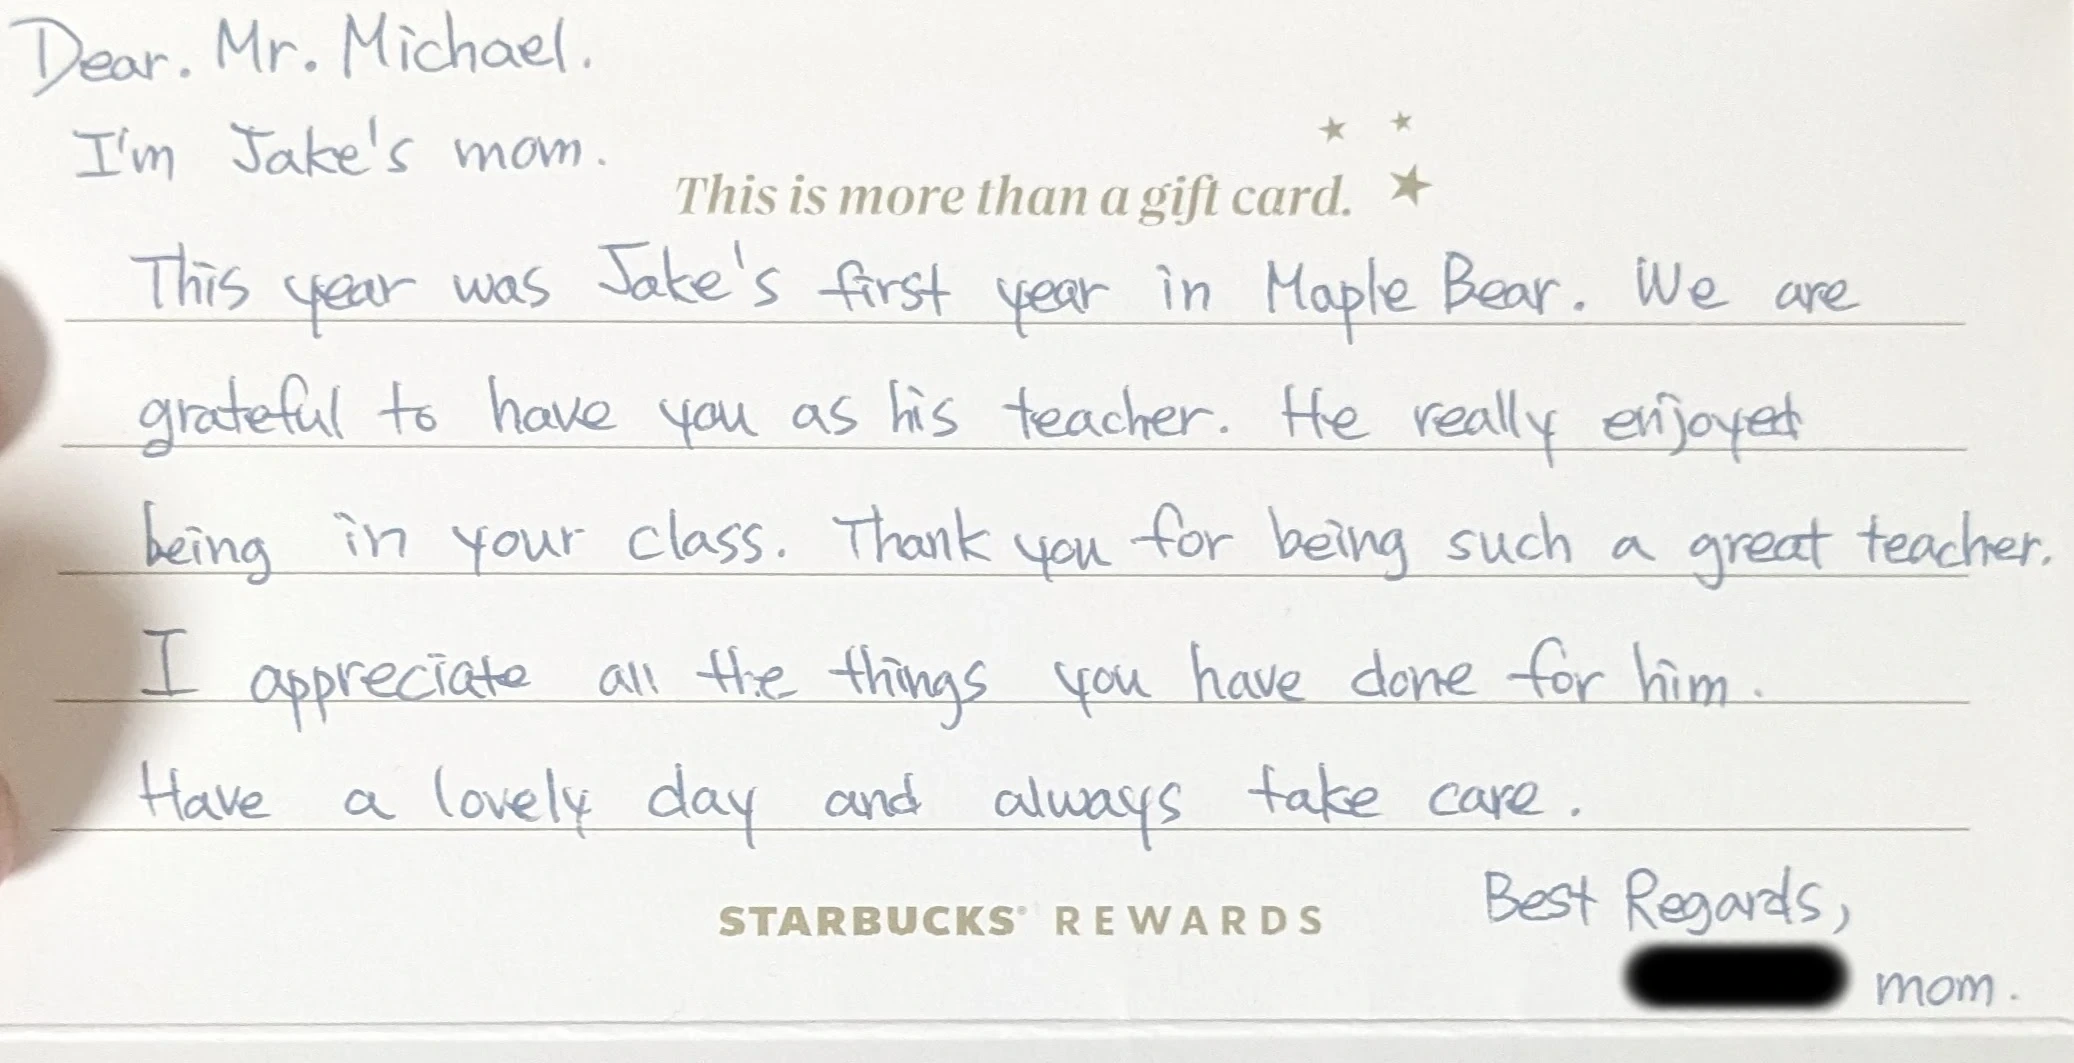
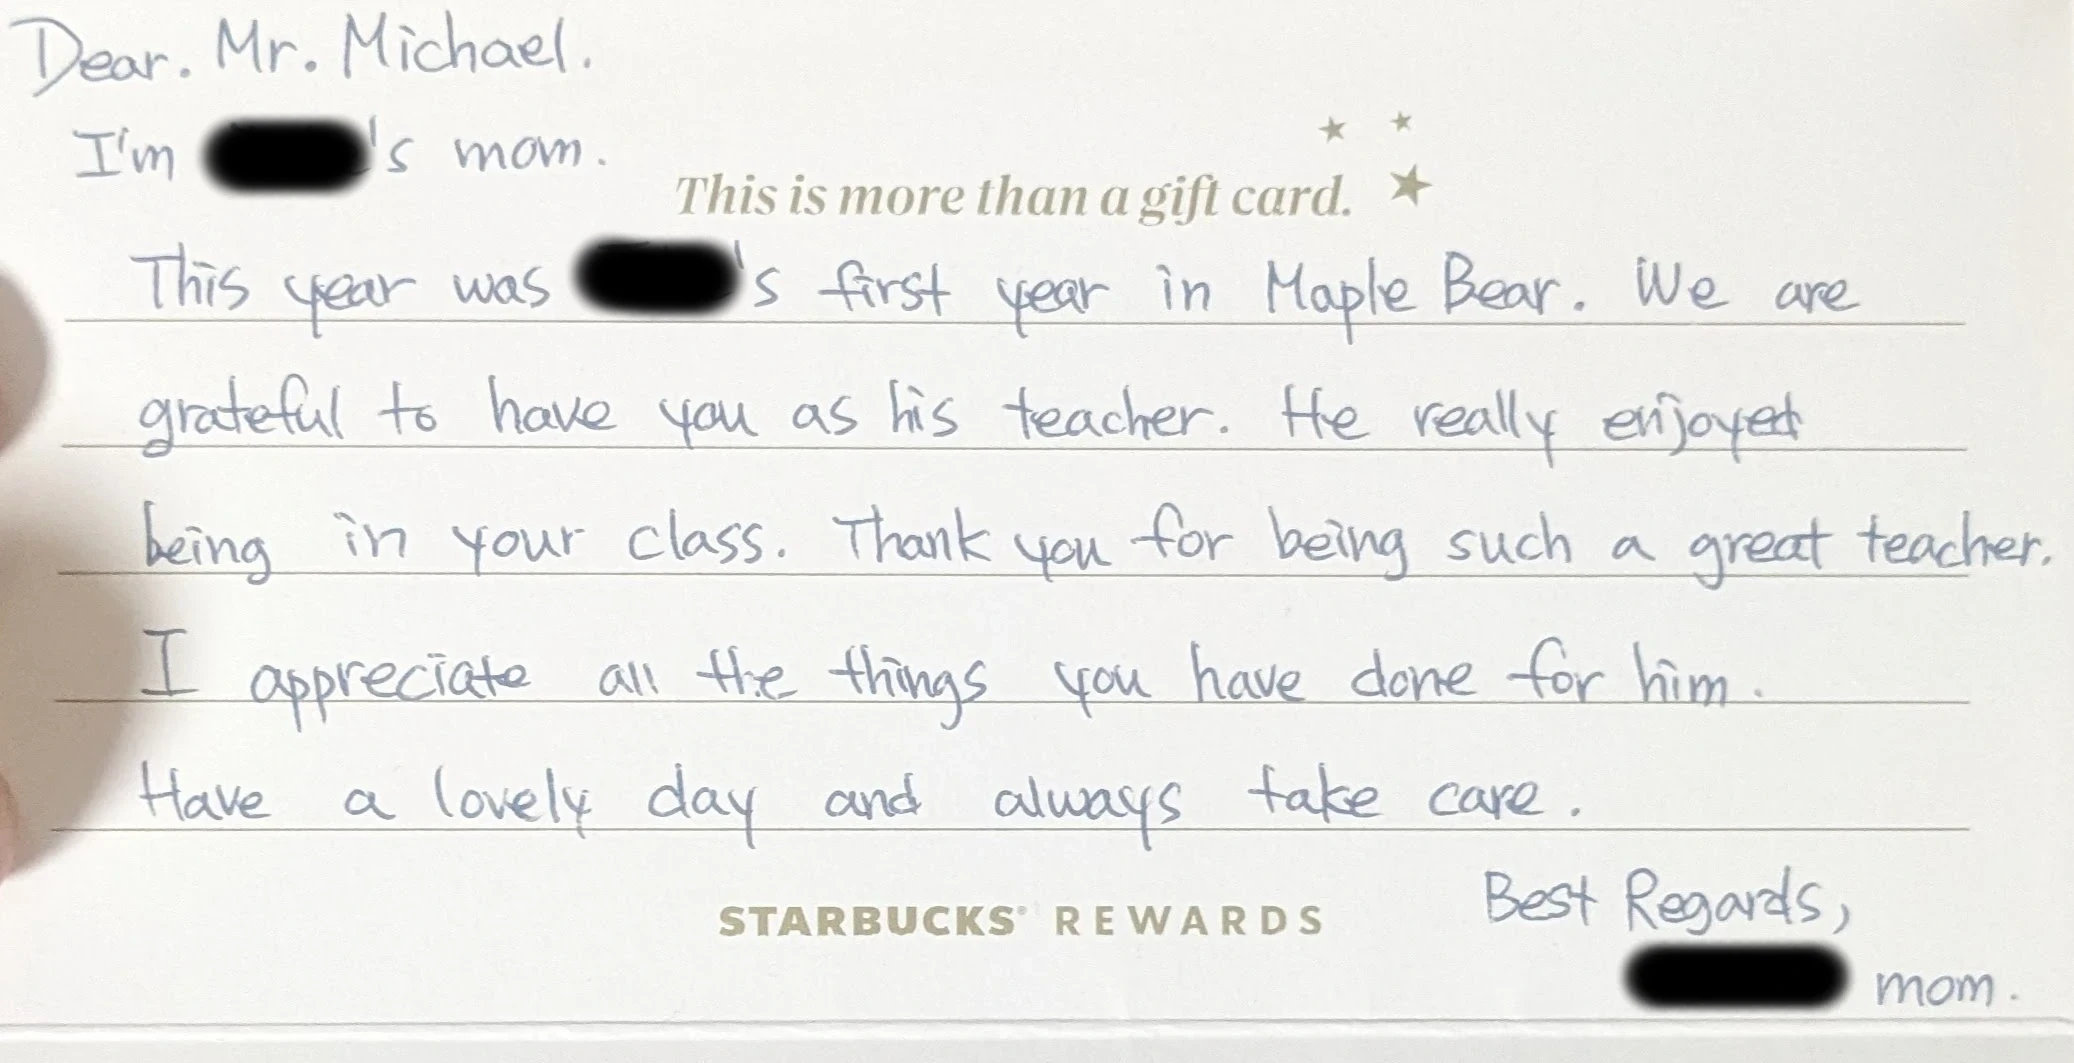
done?

Changed region(s): [[0.2777, 0.2173, 0.3703, 0.3104], [0.0926, 0.0931, 0.1851, 0.1863]]

diff --git a/README.md b/README.md
@@ -18,6 +18,8 @@
     - updated the footer
     - update hire me button, maybe a contact form?
 - 2024/1/27
+    - fixed modal height being too big [1845]
+    - redacted letter-2 names [1845]
     - updated the blog header to be the same as home
     - added author to blog posts
     - added test blog post
